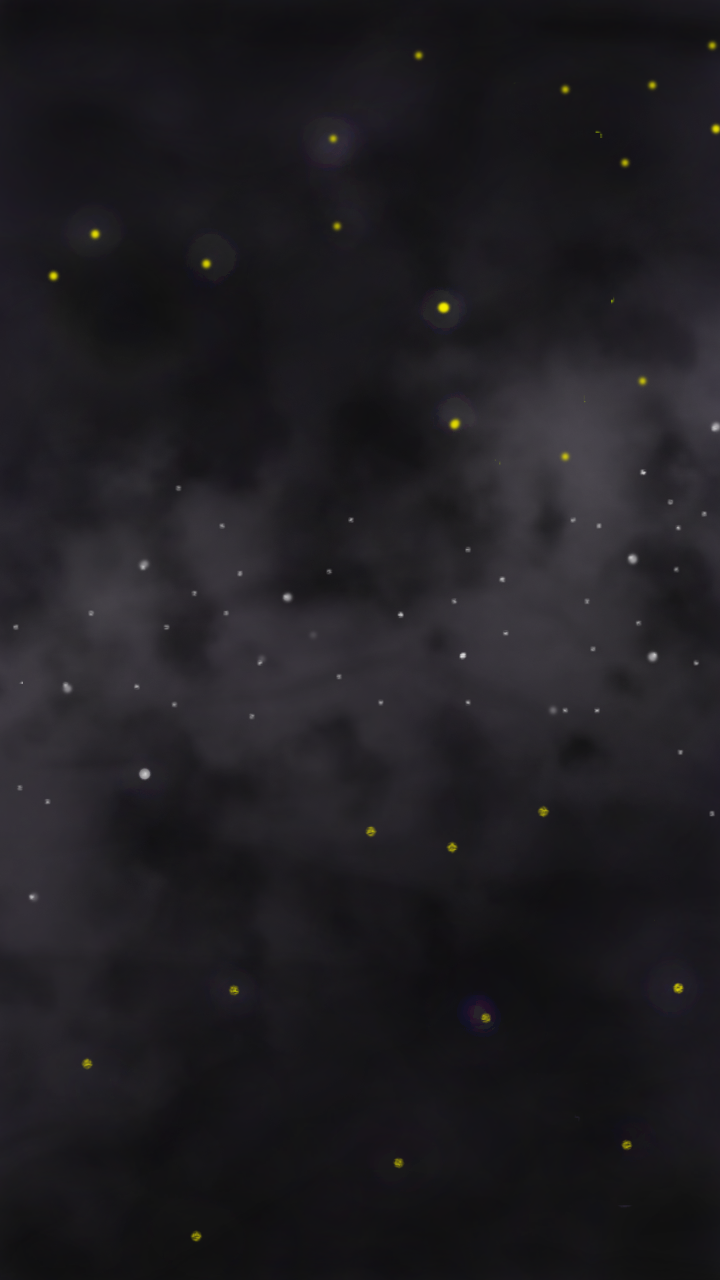
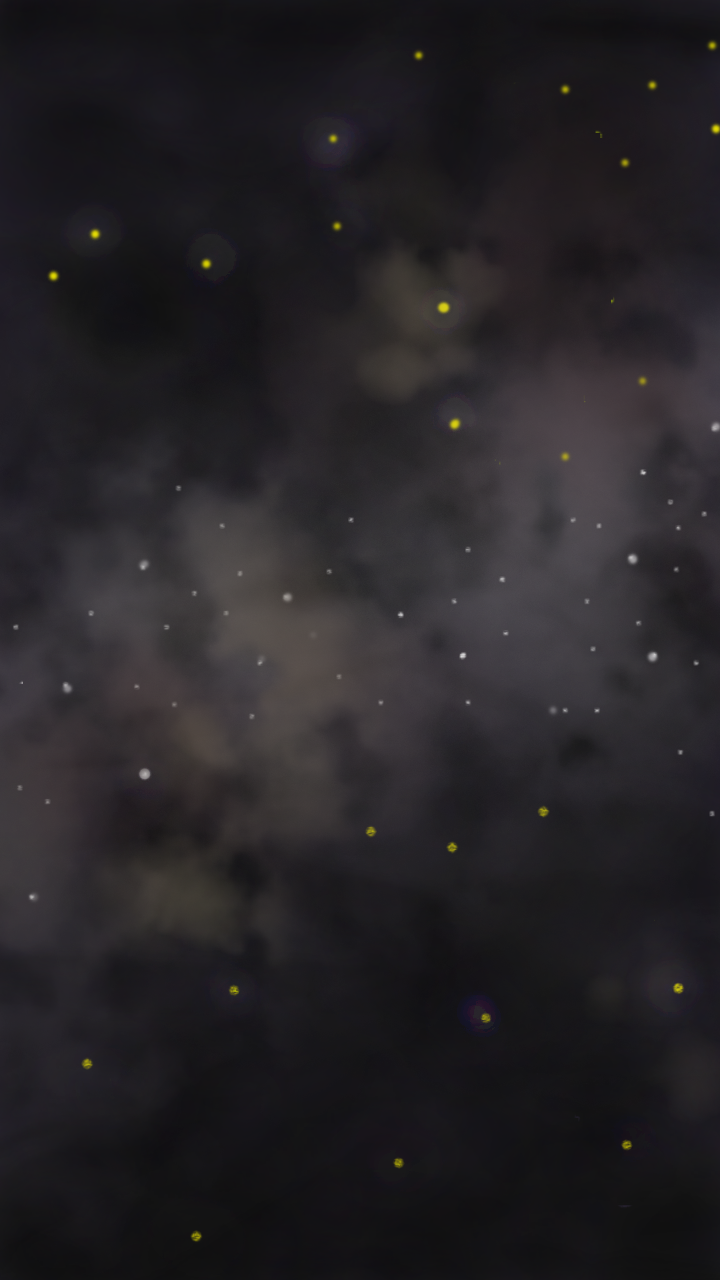
Fixed minor bugs

diff --git a/www/js/states/Game.js b/www/js/states/Game.js
@@ -98,7 +98,7 @@ BasicGame.Game.prototype = {
 
         this.time.advancedTiming = true;
 
-	    this.background = game.add.tileSprite(0, 0, this.game.width, this.game.height, 'floor3');
+	    this.background = game.add.tileSprite(0, 0, this.game.width, this.game.height, 'floor2');
         this.background.tileScale.set(game.width/720,game.height/1028);
 
 
@@ -428,8 +428,10 @@ BasicGame.Game.prototype = {
         this.player.body.velocity.x = 0;
         this.player.body.velocity.y = 0;
         this.background.tilePosition.y += 1;
+        this.allStop();
 
         if(this.input.pointer1.isDown){
+            this.allStart();
             if(!this.isSwiping ){
                 this.startX = this.input.pointer1.x;
                 this.startY = this.input.pointer1.y;
@@ -516,8 +518,8 @@ BasicGame.Game.prototype = {
 
         //starfield.tilePosition.y += 2;
         //this.player.body.acceleration.x = 0;
-        this.player.body.velocity.setTo(0, 0);
-        this.allStop();
+//        this.player.body.velocity.setTo(0, 0);
+//        this.allStop();
 /*
         if (this.cursors.left.isDown)
         {
@@ -565,7 +567,7 @@ BasicGame.Game.prototype = {
         //this.game.physics.arcade.overlap(this.player, this.layers[this.floor-1], this.shipCollide, null, this);
         if (this.floor == 1)
         {
-            this.game.physics.arcade.overlap(this.player, this.frog, this.shipCollide, null, this);
+            this.game.physics.arcade.overlap(this.player, this.frogs, this.shipCollide, null, this);
             this.game.physics.arcade.overlap(this.player, this.pinwheels, this.shipCollide, null, this);
         }
         else if (this.floor == 2)

diff --git a/www/js/states/Preloader.js b/www/js/states/Preloader.js
@@ -30,12 +30,6 @@ BasicGame.Preloader.prototype = {
 		//	Here we load the rest of the assets our game needs.
 		//	You can find all of these assets in the Phaser Examples repository
 
-		//this.load.image('starfield', 'assets/images/starfield.png');
-		this.load.image('sky', 'assets/images/sky.png');
-		this.load.image('ground', 'assets/images/platform.png');
-    	this.load.image('star', 'assets/images/star.png');
-    	this.load.spritesheet('dude', 'assets/images/dude.png', 32, 48);
-
     	// luxes.
     	this.load.image('butterfly', 'assets/images/butterfly.png');
     	this.load.image('frog', 'assets/images/frog.png');
@@ -49,8 +43,6 @@ BasicGame.Preloader.prototype = {
     	this.game.load.spritesheet('explosion', 'assets/images/explode.png', 128, 128);
     	this.game.load.spritesheet('crash', 'assets/images/crash_flight.png', 60, 100);
 
-
-    	this.load.image('bg1', 'assets/images/bg1.jpeg');
 
 		this.load.image('floor1', 'assets/images/bg1.png');
 		this.load.image('floor3', 'assets/images/bg2.png');
